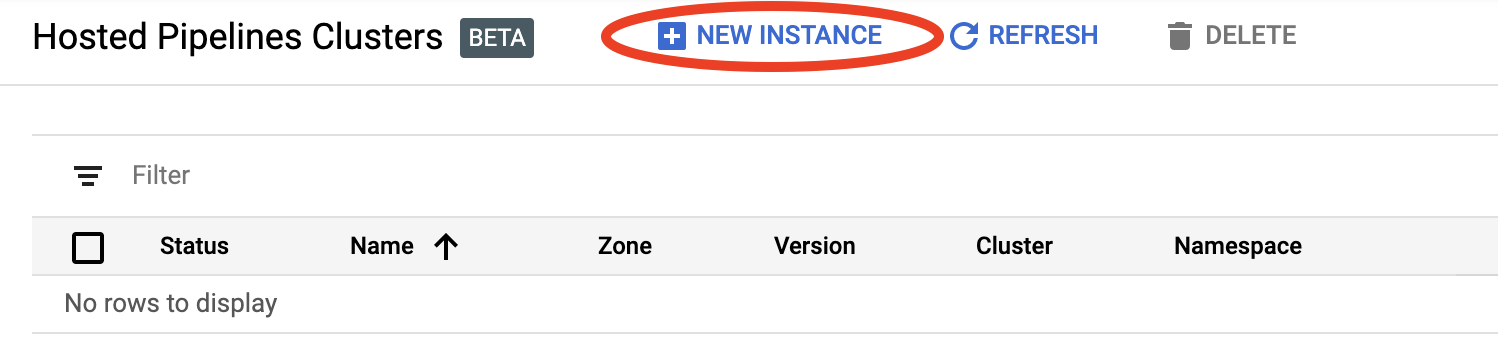
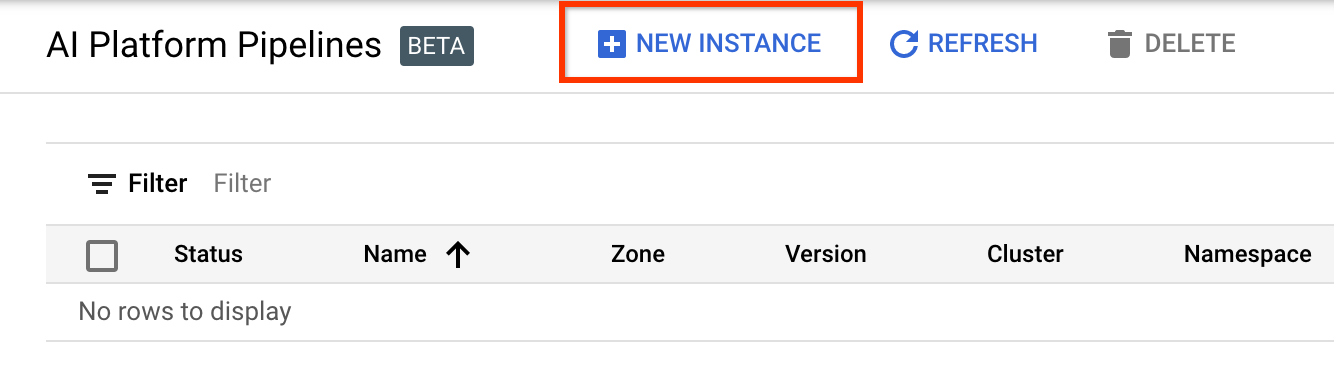
Updating Cloud AI Platform tutorial
PiperOrigin-RevId: 426278552

diff --git a/docs/tutorials/tfx/cloud-ai-platform-pipelines.md b/docs/tutorials/tfx/cloud-ai-platform-pipelines.md
@@ -2,8 +2,11 @@
 
 ## Introduction
 
-This tutorial is designed to introduce TensorFlow Extended (TFX) and Cloud AI
-Platform Pipelines, and help you learn to create your own machine learning
+This tutorial is designed to introduce
+[TensorFlow Extended (TFX)](https://www.tensorflow.org/tfx) and
+[AIPlatform Pipelines]
+(https://cloud.google.com/ai-platform/pipelines/docs/introduction), and help you
+learn to create your own machine learning
 pipelines on Google Cloud. It shows integration with TFX, AI Platform Pipelines,
 and Kubeflow, as well as interaction with TFX in Jupyter notebooks.
 
@@ -101,7 +104,8 @@ Note: You must have a verified credit card on file before creating the project.
     click the project dropdown next to the **Google Cloud Platform** header, and
     select **New Project**.
 1.  Give your project a name and enter other project details
-1.  Once you have created a project, select it from the project drop-down.
+1.  **Once you have created a project, make sure to select it from the project
+drop-down.**
 
 ## 2. Set up and deploy an AI Platform Pipeline on a new Kubernetes cluster
 
@@ -122,24 +126,33 @@ for resources to be provisioned.
 
     <img style="width: 65%;" src="images/cloud-ai-platform-pipelines/configure.png">
 
-    You may have to wait several minutes before moving on, while the Kubernetes
-    Engine APIs are being enabled for you.
+1.  Click "Enable" to enable the Kubernetes Engine API
+
+    <img style="width: 65%;" src="images/cloud-ai-platform-pipelines/enable_api.png">
+
+    Note: You may have to wait several minutes before moving on, while the Kubernetes Engine APIs are being enabled for you.
 
 1.  On the **Deploy Kubeflow Pipelines** page:
 
     1.  Select a [zone](https://cloud.google.com/compute/docs/regions-zones) (or
-        "region") for your cluster.
+        "region") for your cluster. The network and subnetwork can be set, but
+        for the purposes of this tutorial we will leave them as defaults.
+
     1.  **IMPORTANT** Check the box labeled *Allow access to the following cloud
         APIs*. (This is required for this cluster to access the other pieces of
         your project. If you miss this step, fixing it later is a bit tricky.)
 
         <img style="width: 50%;" src="images/cloud-ai-platform-pipelines/check-the-box.png">
 
-    1.  Click **Create**, and wait several minutes until the cluster has been
-        created.
+    1.  Click **Create New Cluster**, and wait several minutes until the cluster
+        has been created.  This will take a few minutes.  When it completes you
+        will see a message like:
 
-    1.  Select a namespace and instance name (using the defaults is fine). You
-        don't have to check *Use managed storage*.
+        > Cluster "cluster-1" successfully created in zone "us-central1-a".
+
+    1.  Select a namespace and instance name (using the defaults is fine). For
+        the purposes of this tutorial do not check *executor.emissary* or
+        *managedstorage.enabled*.
 
     1.  Click **Deploy**, and wait several moments until the pipeline has been
         deployed. By deploying Kubeflow Pipelines, you accept the Terms of
@@ -148,30 +161,38 @@ for resources to be provisioned.
 ## 3. Set up Cloud AI Platform Notebook instance.
 
 1.  Go to the
-    [AI Platform Notebooks](https://console.cloud.google.com/ai-platform/notebooks)
-    page.
+    [Vertex AI Workbench](https://console.cloud.google.com/vertex-ai/workbench)
+    page.  The first time you run Workbench you will need to enable the
+    Notebooks API.
 
-    Under the Main Navigation Menu: ≡ -> AI Platform -> Notebooks
+    Under the Main Navigation Menu: ≡ -> Vertex AI -> Workbench
 
 1.  If prompted, enable the Compute Engine API.
 
-1.  Create a **New Instance** with TensorFlow 2.1 (or higher) installed.
+1.  Create a **New Notebook** with TensorFlow Enterprise 2.7 (or above)
+    installed.
 
-    New Instance -> TensorFlow 2.1 -> Without GPU
+    <img style="width: 65%;" src="images/cloud-ai-platform-pipelines/new-notebook.png">
 
-    To stay within the Free Tier limits, do not accept the default settings
-    here. You need to reduce the number of vCPUs available to this instance from
-    4 to 2:
+    New Notebook -> TensorFlow Enterprise 2.7 -> Without GPU
 
-    1.  Select **Customize** at the bottom of the **New notebook instance**
-        form.
-    1.  Select a **Machine configuration** with 1 or 2 vCPUs.
+    Select a region and zone, and give the notebook instance a name.
+
+    To stay within the Free Tier limits, you may need to change the default
+    settings here to reduce the number of vCPUs available to this instance
+    from 4 to 2:
+
+    1.  Select **Advanced Options** at the bottom of the **New notebook** form.
+    1.  Under **Machine configuration** you may want to select a configuration
+        with 1 or 2 vCPUs if you need to stay in the free tier.
 
         <img style="width: 65%;" src="images/cloud-ai-platform-pipelines/two-cpus.png">
+    1. Wait for the new notebook to be created, and then click **Enable
+       Notebooks API**
 
 Note: You may experience slow performance in your notebook if you use 1 or 2
-vCPUs instead of the default. This should not seriously hinder your completion
-of this tutorial. If would like to use the default settings,
+vCPUs instead of the default or higher. This should not seriously hinder your
+completion of this tutorial. If would like to use the default settings,
 [upgrade your account](https://cloud.google.com/free/docs/gcp-free-tier#to_upgrade_your_account)
 to at least 12 vCPUs. This will accrue charges. See
 [Google Kubernetes Engine Pricing](https://cloud.google.com/kubernetes-engine/pricing/)
@@ -181,21 +202,23 @@ information about the [Google Cloud Free Tier](https://cloud.google.com/free).
 
 ## 4. Launch the Getting Started Notebook
 
-1.  Go to the
-    [**AI Platform Pipelines Clusters**](https://console.cloud.google.com/ai-platform/pipelines)
-    page.
+1.  Go to the [**AI Platform Pipelines Clusters**]
+    (https://console.cloud.google.com/ai-platform/pipelines) page.
 
     Under the Main Navigation Menu: ≡ -> AI Platform -> Pipelines
 
 1.  On the line for the cluster you are using in this tutorial, click **Open
     Pipelines Dashboard**.
 
-    ![open-dashboard](images/cloud-ai-platform-pipelines/open-dashboard.png)
+    <img src="images/cloud-ai-platform-pipelines/open-dashboard.png">
 
-1.  On the **Getting Started** page, click **Open TF 2.1 Notebook**.
+1.  On the **Getting Started** page, click **Open a Cloud AI Platform
+    Notebook on Google Cloud**.
+
+    <img src="images/cloud-ai-platform-pipelines/open-template.png">
 
 1.  Select the Notebook instance you are using for this tutorial and
-    **Continue**.
+    **Continue**, and then **Confirm**.
 
     ![select-notebook](images/cloud-ai-platform-pipelines/select-notebook.png)
 
